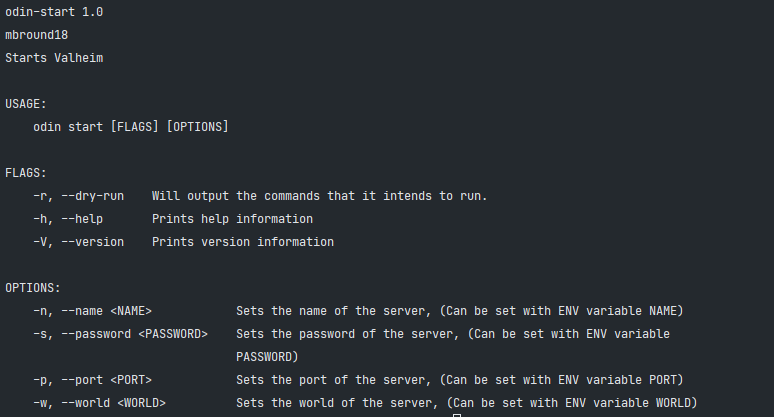
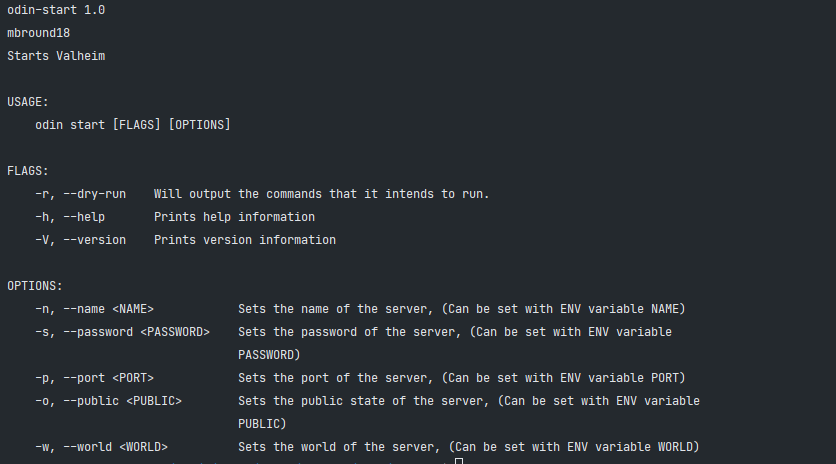
Added password length #11 and added public variable tracking #24 (#29)
* Added password length #11 and added public variable tracking #24

* Documentation updates

diff --git a/src/commands/start.rs b/src/commands/start.rs
@@ -1,5 +1,5 @@
 use crate::executable::{create_execution};
-use std::process::{Stdio};
+use std::process::{Stdio, exit};
 use clap::{ArgMatches};
 use crate::utils::{get_variable, server_installed, get_working_dir};
 use log::{info, error};
@@ -15,9 +15,14 @@ pub fn invoke(args: &ArgMatches) {
         port: get_variable(args, "port", "2456".to_string()).to_string(),
         name: get_variable(args, "name", "Valheim powered by Odin".to_string()),
         world: get_variable(args, "world", "Dedicated".to_string()),
+        public: get_variable(args, "public", "1".to_string()),
         password: get_variable(args, "password", "12345".to_string()),
         command: server_executable.to_string()
     };
+    if script_args.password.len() < 5 {
+        error!("The supplied password is too short! It much be 5 characters or greater!");
+        exit(1)
+    }
     let dry_run: bool = args.is_present("dry_run");
     info!("Looking for burial mounds...");
     write_rusty_start_script(script_args, dry_run);

diff --git a/src/files/start_server_rusty.rs b/src/files/start_server_rusty.rs
@@ -15,7 +15,7 @@ cd "$(dirname "$0")"
     -name "{name}" \
     -world "{world}" \
     -password "{password}" \
-    -public 1 \
+    -public {public} \
     2>&1 | tee ./output.log  > /dev/null 2>&1 &
 
 # Capture the PID
@@ -30,6 +30,7 @@ pub struct ValheimArguments {
     pub(crate) port: String,
     pub(crate) name: String,
     pub(crate) world: String,
+    pub(crate) public: String,
     pub(crate) password: String,
     pub(crate) command: String
 }
@@ -45,7 +46,6 @@ pub fn write_rusty_start_script(context: &ValheimArguments, dry_run: bool) {
     let file = ManagedFile {
         name: "start_server_rusty.sh"
     };
-
     if dry_run {
         info!("This would have written a file to\n{}", file.path());
         info!("With contents of:\n{}", content);

diff --git a/README.md b/README.md
@@ -6,17 +6,20 @@
 
 ## Docker
 
+> [If you are looking for a guide on how to get started click here](https://github.com/mbround18/valheim-docker/discussions/28)
+
 ### Environment Variables
 
 | Variable    | Default                | Required | Description |
 |-------------|------------------------|----------|-------------|
+| TZ          | `America/Los_Angeles`  | FALSE    | Sets what timezone your container is running on. This is used for timestamps and cron jobs. [Click Here for which timezones are valid.](https://en.wikipedia.org/wiki/List_of_tz_database_time_zones) |
 | PUID        | `1000`                 | FALSE    | Sets the User Id of the steam user. |
 | PGID        | `1000`                 | FALSE    | Sets the Group Id of the steam user. |
+| PORT        | `2456`                 | TRUE     | Sets the port your server will listen on. Take not it will also listen on +2 (ex: 2456, 2457, 2458) |
 | NAME        | `Valheim Docker`       | TRUE     | The name of your server! Make it fun and unique! |
 | WORLD       | `Dedicated`            | TRUE     | This is used to generate the name of your world. |
-| PORT        | `2456`                 | TRUE     | Sets the port your server will listen on. Take not it will also listen on +2 (ex: 2456, 2457, 2458) |
+| PUBLIC      | `1`                    | FALSE    | Sets whether or not your server is public on the server list. |
 | PASSWORD    | `12345`                | TRUE     | Set this to something unique! |
-| TZ          | `America/Los_Angeles`  | FALSE    | Sets what timezone your container is running on. This is used for timestamps and cron jobs. [Click Here for which timezones are valid.](https://en.wikipedia.org/wiki/List_of_tz_database_time_zones) |
 | AUTO_UPDATE | `0`                    | FALSE    | Set to `1` if you want your container to auto update! This means at 1 am it will update, stop, and then restart your server. |
 
 
@@ -32,12 +35,13 @@ services:
       - 2457:2457/udp
       - 2458:2458/udp
     environment:
+      TZ: "America/Los_Angeles"
       NAME: "Valheim Docker"
       WORLD: "Dedicated"
       PORT: "2456"
+      PUBLIC: "1"
       PASSWORD: "something-secret"
-      TZ: "America/Los_Angeles"
-      AUTO_UPDATE: "0"
+      AUTO_UPDATE: "0"     
     volumes:
     - ./valheim/saves:/home/steam/.config/unity3d/IronGate/Valheim
     - ./valheim/server:/home/steam/valheim
@@ -98,7 +102,9 @@ odin stop
   - [#18] Fixed issue with the timezone not persisting.
   - To exec into the container you now have to include the `-u|--user` argument to access steam directly. Example `docker-compose exec --user steam valheim bash`
   - There is now a `dry-run` command argument on `odin` to preview what the command would do. 
-  - You can run with `-d|--debug` to get verbose logging of what `odin` is doing. 
+  - You can run with `-d|--debug` to get verbose logging of what `odin` is doing.
+  - [#11] Added check for length of password and fail on odin install or odin stop failures.
+  - [#24] Added public variable to dockerfile and odin
 - 1.1.1 (Stable): 
   - Includes PR [#10] to fix the double world argument. 
 - 1.1.0 (Stable): 
@@ -112,7 +118,9 @@ odin stop
   - Has a bug in which it does not read passed in variables appropriately to Odin. Env variables are not impacted see [#3]. 
 
 [//]: <> (Github Issues below...........)
+[#24]: https://github.com/mbround18/valheim-docker/issues/24
 [#18]: https://github.com/mbround18/valheim-docker/pull/18
+[#11]: https://github.com/mbround18/valheim-docker/issues/11
 [#10]: https://github.com/mbround18/valheim-docker/pull/10
 [#8]: https://github.com/mbround18/valheim-docker/issues/8
 [#3]: https://github.com/mbround18/valheim-docker/issues/3 
